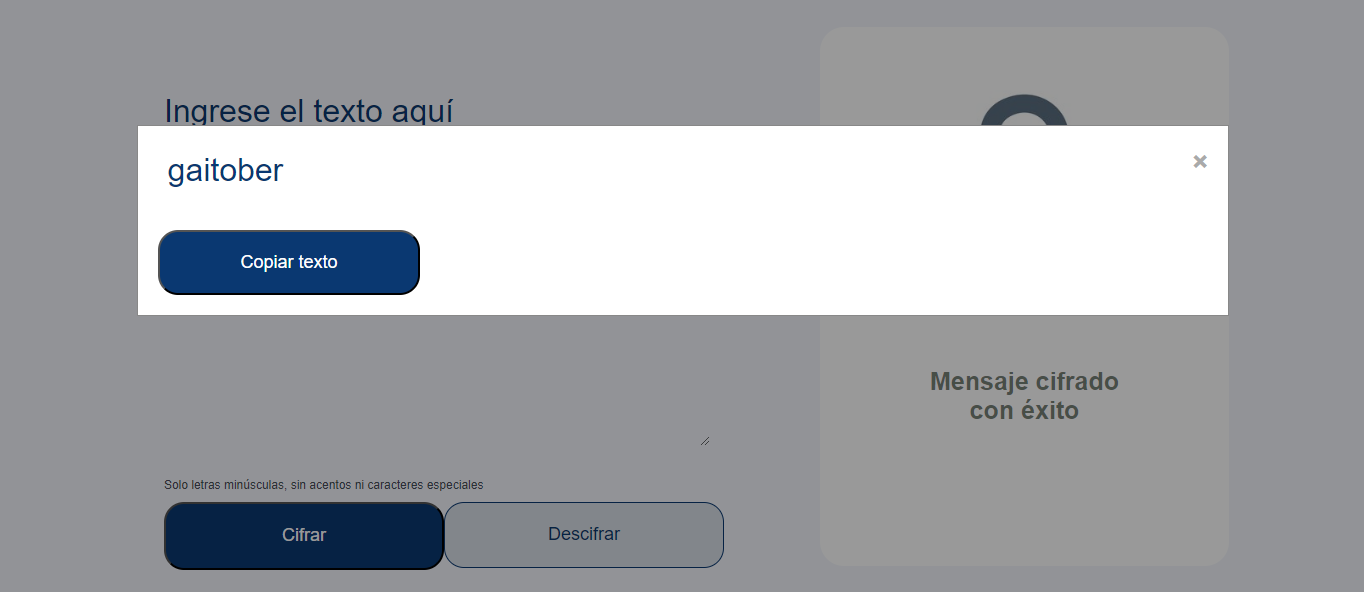
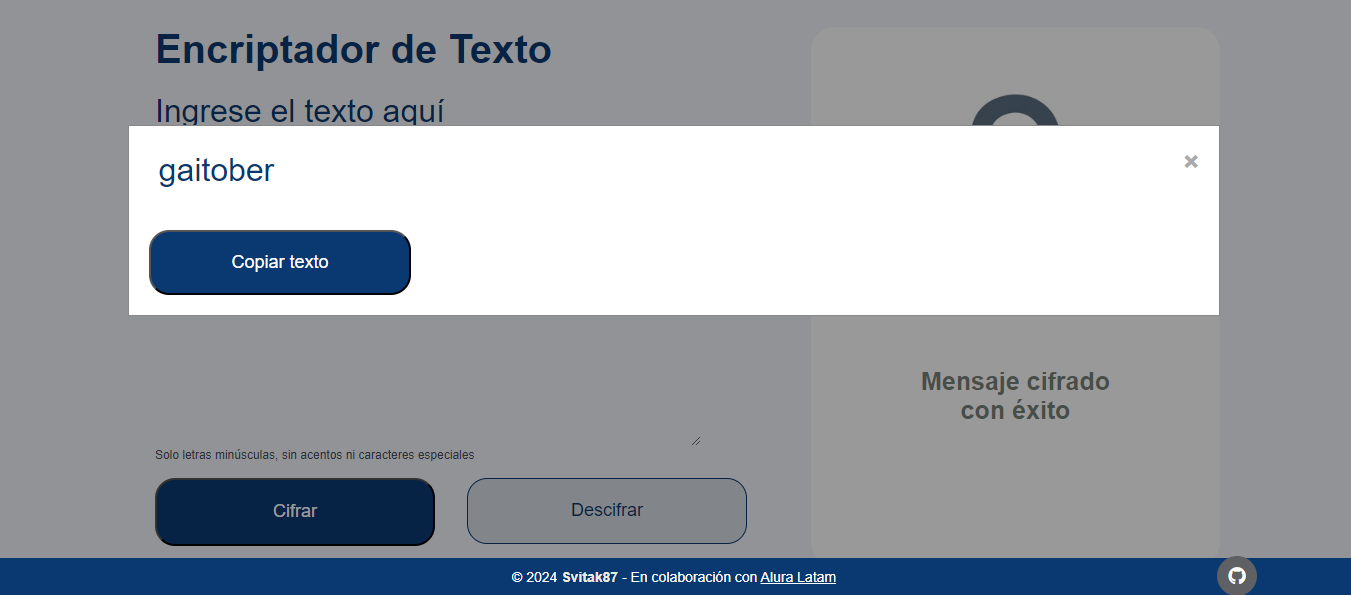
agregando footer y ultimando detalles

diff --git a/index.html b/index.html
@@ -1,16 +1,20 @@
 <!DOCTYPE html>
 <html lang="en">
+
 <head>
     <meta charset="UTF-8">
     <meta name="viewport" content="width=device-width, initial-scale=1.0">
+    <link rel="stylesheet" href="https://cdnjs.cloudflare.com/ajax/libs/font-awesome/4.7.0/css/font-awesome.min.css">
     <link rel="stylesheet" href="./styles.css">
     <title>Encriptador de texto</title>
 </head>
+
 <body>
     <div class="container">
+        <h1 class="title">Encriptador de Texto</h1>
         <div class="container_encriptador">
-            <textarea type="text" name="textarea" class="textarea" id="textarea"
-                placeholder="Ingrese el texto aquí" cols="30" rows="10"></textarea>
+            <textarea type="text" name="textarea" class="textarea" id="textarea" placeholder="Ingrese el texto aquí"
+                cols="30" rows="10"></textarea>
         </div>
         <div class="conditions">
             <p id="conditions_message">Solo letras minúsculas, sin acentos ni caracteres especiales</p>
@@ -26,6 +30,16 @@
                 <p id="paraghrap">Ingresa el texto a encriptar o desencriptar</p>
             </div>
         </div>
+        <footer>
+            <div class=footerContainer>
+                <small class=footer>&copy; 2024 <b>Svitak87</b> - En colaboración con <a class="alura"
+                        href="https://www.aluracursos.com" target="_blank">Alura Latam</a></small>
+                </a>
+                <a class=github href="https://github.com/svitak87" target="_blank" rel="noopener noreferrer">
+                    <i class="fa fa-github"></i>
+                </a>
+            </div>
+        </footer>
     </div>
 
     <!-- PopUp -->
@@ -39,4 +53,5 @@
 
     <script src="./app.js"></script>
 </body>
+
 </html>

diff --git a/styles.css b/styles.css
@@ -11,6 +11,17 @@
     background: #F3F5FC ;
 }
 
+.title {
+    position: absolute;
+    left: 12%;
+    top: 5%;
+    font-family: "Inter";
+    font-style:normal;
+    font-weight:bolder;
+    font-size: 40px;
+    color: #0a3871;
+}
+
 .textarea {
     position: absolute;
     width: 40%;
@@ -47,7 +58,7 @@
     position: absolute;
     width: 80%;
     left: 12%;
-    top: 80%
+    top: 75%
 }
 
 .conditions p {
@@ -67,8 +78,9 @@
     width: 82%;
     height: 5%;
     position: absolute;
-    top: 82%;
+    top: 78%;
     left: 12%;
+    margin-bottom: 2rem;
 }
 
 .btn-cifrar{
@@ -90,6 +102,7 @@
 .btn-descrifrar{
     align-items: center;
     justify-content: center;
+    margin-left: 2rem;
     padding: 2%;
     gap: 80px;
     width: 25%;
@@ -157,7 +170,7 @@
 }
 
 
-/* Pop-ip */
+/* Pop-up styles*/
 .modal {
     display: none; 
     position: fixed; 
@@ -227,6 +240,49 @@
     text-decoration: none;
     cursor: pointer;
 }
+
+
+/* Footer styles */
+
+.footerContainer {
+    position: absolute;
+    margin-top: 5rem;
+    bottom: 0;
+    left: 0;
+    width: 100%;
+    text-align: center;
+    background-color: #0a3871;
+    color: #fff;
+    padding: 10px;
+    z-index: 1000;
+  }
+  
+  .footer {
+    font-size: 14px;
+  }
+  
+  .footer b {
+    color: #ebebe2; 
+  }
+.alura {
+    color: white
+}
+  
+  .github{
+    position: fixed;
+    bottom: 0px;
+    right: 100px;
+    display: flex;
+    align-items: center;
+    justify-content: center;
+    background-color: #5f6063;
+    color: #fff;
+    border-radius: 50%;
+    width: 40px;
+    height: 40px;
+    text-decoration: none;
+    font-size: 20px;
+  }
 
 
 

diff --git a/app.js b/app.js
@@ -47,7 +47,6 @@ function processText(action) {
       image.src =
         action === "encrypt" ? "./assets/candado.jpg" : "./assets/candado_abierto.png";
 
-      // Mostrar el modal con el texto procesado
       let modal = document.getElementById("modal");
       let span = document.getElementsByClassName("close")[0];
       let encryptedTextElement = document.getElementById("encryptedText");

diff --git a/README.md b/README.md
@@ -16,7 +16,10 @@ información sensible o simplemente divertirte con la criptografía, esta aplica
 <p>*Cuando seleccionas el botón 'copiar texto', desaparecerá el Pop-up</p>
 <img src="./previews/preview-three.png">
 
-<p>¡IMPORTANTE! Con el texto ya copiado, se repite el proceso pero haciendo click en el botón 'Descifrar<p>
+<p>¡IMPORTANTE! Con el texto ya copiado, se repite el proceso ingresando el texto haciendo con el teclado: 'Ctrl + v'; pero haciendo click en el botón 'Descifrar'<p>
+
+<h2>A tener en cuenta... La aplicación <span>NO</span> acepta minúsculas, caracteres especiales o con acentos.</h2>
+<img src="./previews/preview_four.png">
 
 <h2>Tecnologías utilizadas:</h2>
 <ul>
